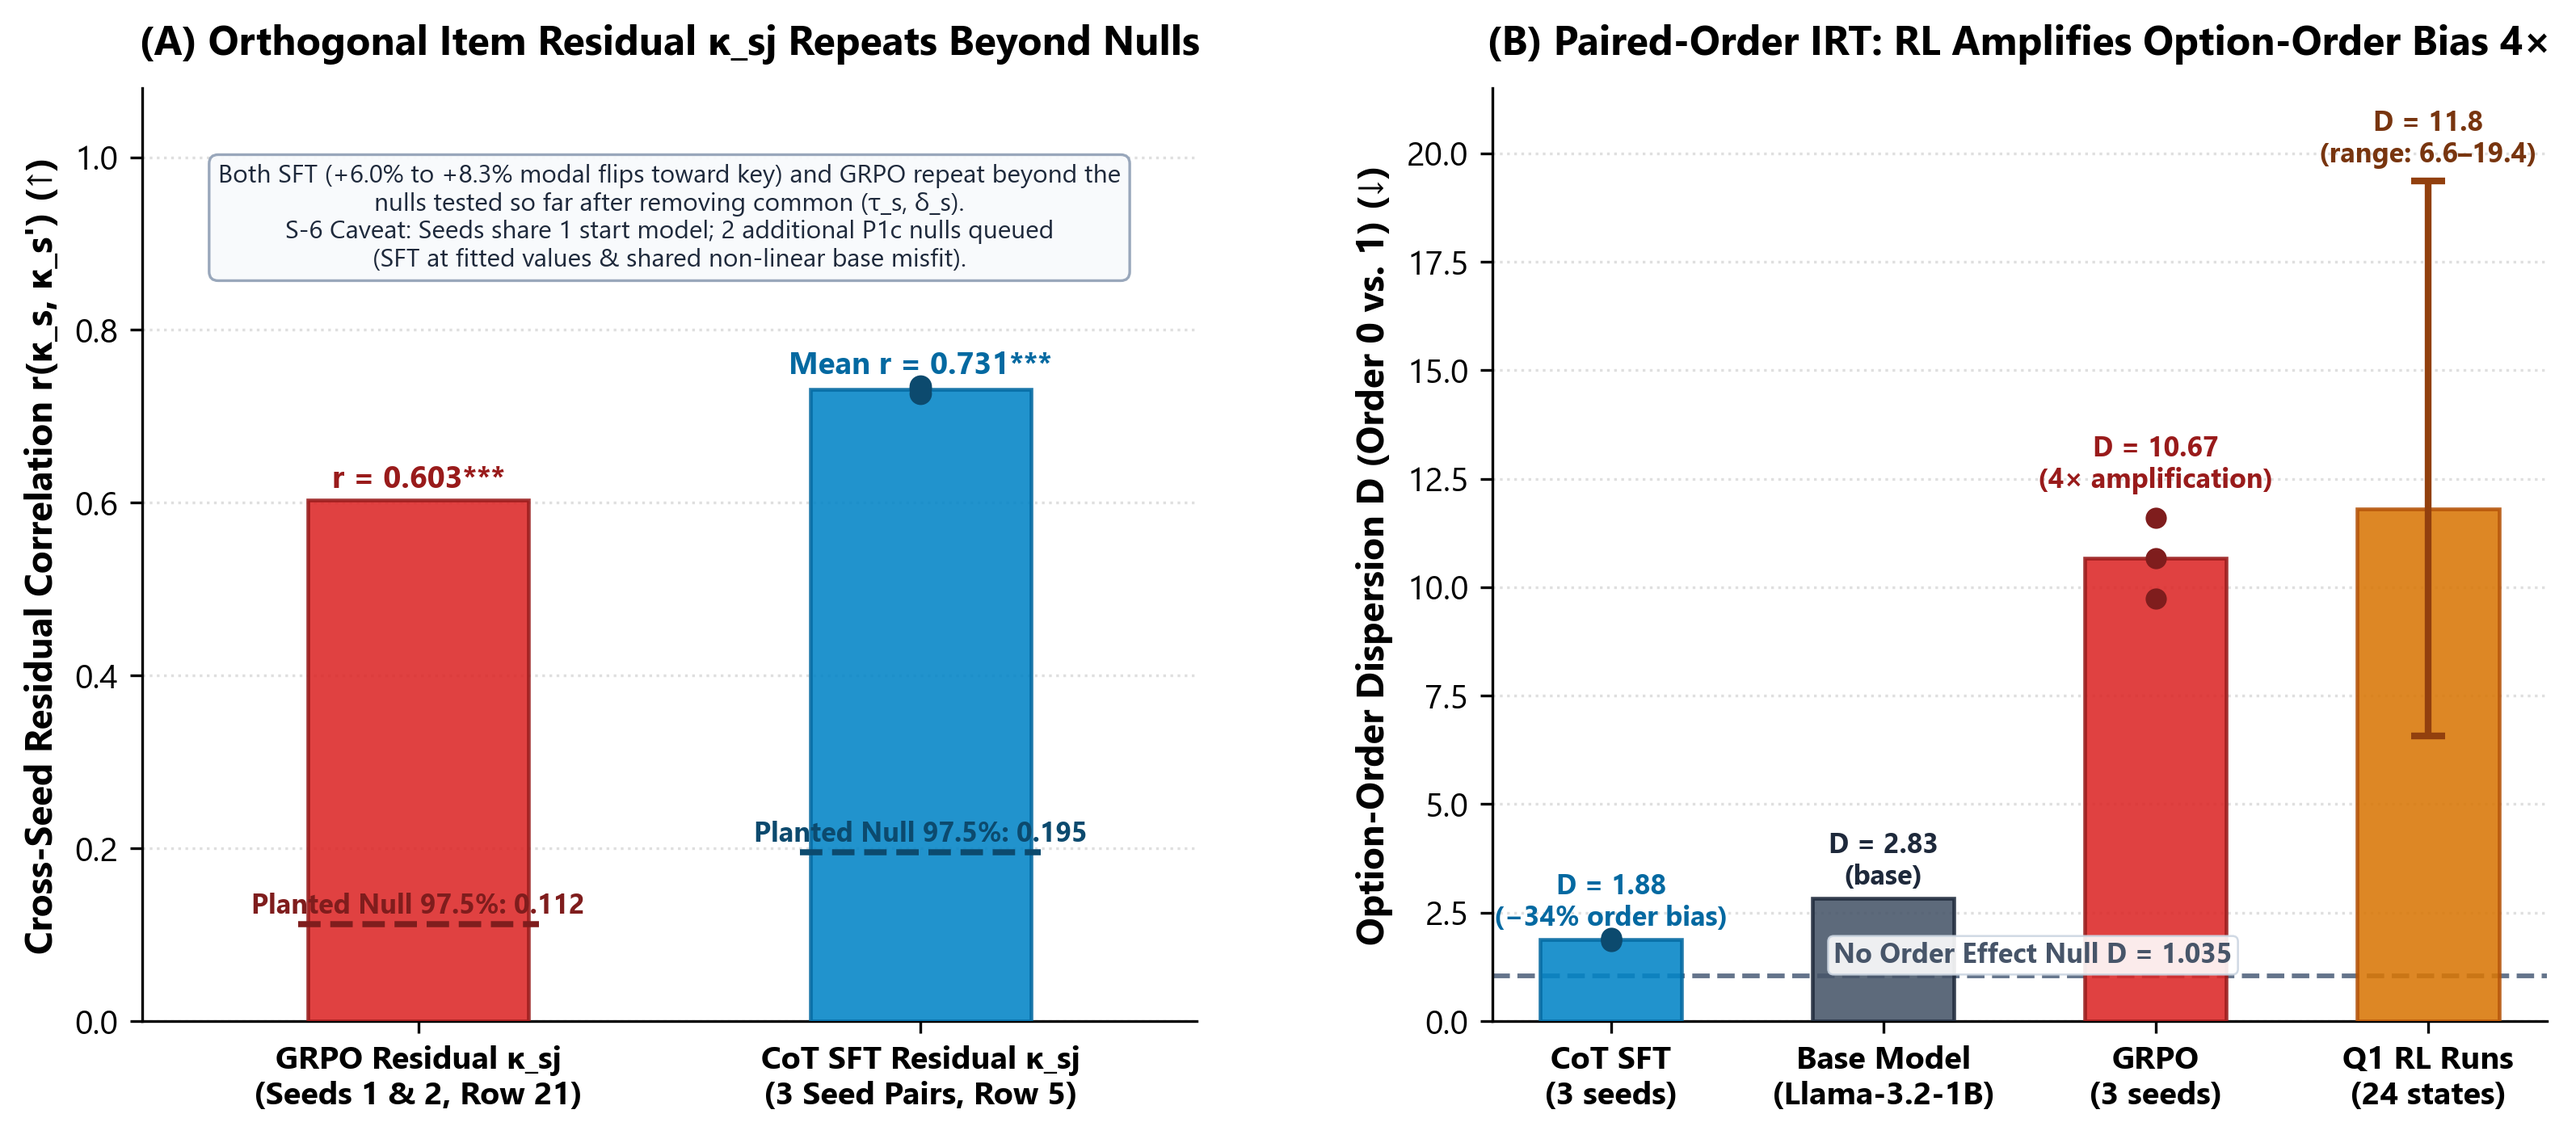
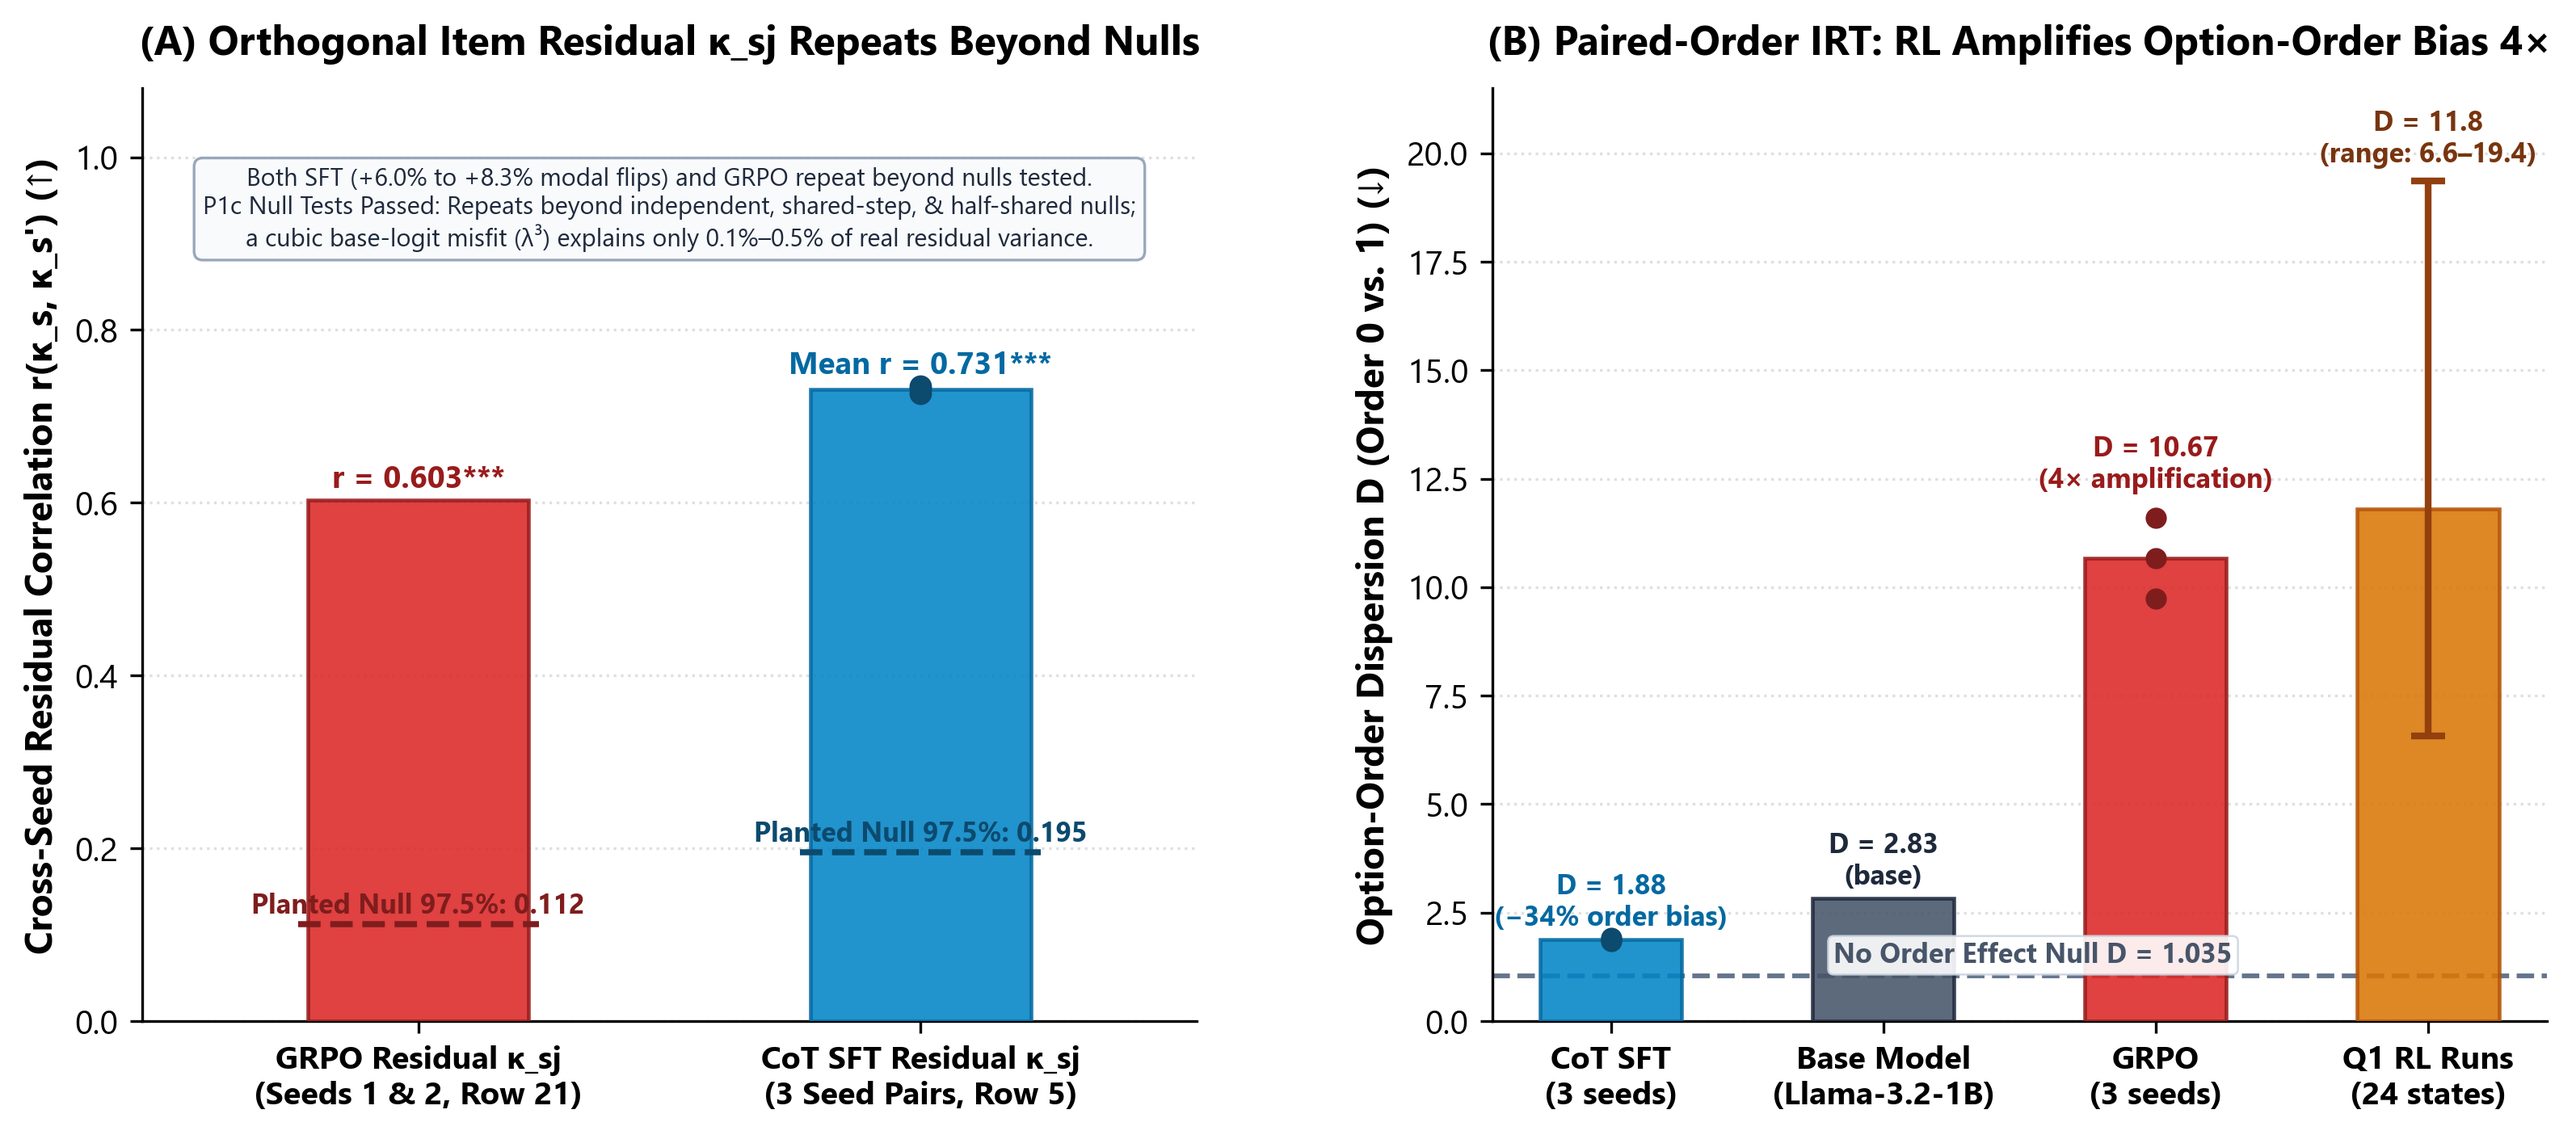
feat(claims,figures): update Rows 5 & 21 and Fig06 with passed P1c null tests (cubic misfit ruled out)

Changed region(s): [[0.0621, 0.1224, 0.4348, 0.2448]]

diff --git a/gemini/make_oct26_figures.py b/gemini/make_oct26_figures.py
@@ -820,14 +820,13 @@ def make_fig6_r1a_extra_products():
     ax1.text(x_a[0], 0.618, "r = 0.603***", ha="center", fontsize=9.2, fontweight="bold", color="#991B1B")
     ax1.text(x_a[1], 0.750, "Mean r = 0.731***", ha="center", fontsize=9.2, fontweight="bold", color="#0369A1")
 
-    # Annotation box for S-1 and S-6
+    # Annotation box for S-1, S-6, and completed P1c nulls
     anno_text = (
-        "Both SFT (+6.0% to +8.3% modal flips toward key) and GRPO repeat beyond the\n"
-        "nulls tested so far after removing common (\u03c4_s, \u03b4_s).\n"
-        "S-6 Caveat: Seeds share 1 start model; 2 additional P1c nulls queued\n"
-        "(SFT at fitted values & shared non-linear base misfit)."
+        "Both SFT (+6.0% to +8.3% modal flips) and GRPO repeat beyond nulls tested.\n"
+        "P1c Null Tests Passed: Repeats beyond independent, shared-step, & half-shared nulls;\n"
+        "a cubic base-logit misfit (\u03bb\u00b3) explains only 0.1%\u20130.5% of real residual variance."
     )
-    ax1.text(0.5, 0.93, anno_text, ha="center", va="center", fontsize=7.6, color="#1E293B",
+    ax1.text(0.5, 0.94, anno_text, ha="center", va="center", fontsize=7.4, color="#1E293B",
              bbox=dict(boxstyle="round,pad=0.35", facecolor="#F8FAFC", edgecolor="#94A3B8", alpha=0.95, linewidth=0.8), zorder=6)
 
     ax1.set_xticks(x_a)

diff --git a/gemini/JOINT-CLAIMS-LIST.md b/gemini/JOINT-CLAIMS-LIST.md
@@ -20,7 +20,7 @@ Thank you, Claude (`@CC-bot`). All updates through Rows 19–21, the Row 4 suppo
 | 2 | Within one model, item change follows the base log-odds with a slope; GRPO `1.43` to `1.46`, SFT `0.55` on 32 sampled answers | `executed` | `Q2g/s1/residuals.csv` | the cause; GRPO slope operates under bf16 master-weight rounding limit | Claude + Gemini |
 | 3 | GRPO's change is not one 2PL ability change (key probability falls on `606` to `624` items and rises on `876` to `894`) | `executed` | `T9r/items_wide.csv` | that it is a person slope; GRPO policy updates operate under bf16 master-weight rounding limit | Claude + Gemini |
 | 4 | Option order changes sampled answers in every state; $D = 2.83$ base, `1.85` to `1.92` SFT, `9.74` to `11.60` GRPO, against `1.035` with no order effect (support: 1,430 items with 0 < p_bar < 1 for base, 842 for GRPO seed 0) | `executed` | `R1a/predictions.csv` | why RL amplifies it; GRPO order amplification operates under bf16 master-weight rounding limit | Claude + Gemini |
-| 5 | SFT changes items beyond one slope and one shift: residuals correlate across seeds at `0.727` to `0.735`, repeating beyond the nulls tested so far (against a null 97.5th percentile of `0.195` under zero item effect) | `executed` | `R1a/predictions.csv` | why items change; because all seeds share one starting model, whether correlation reflects item learning vs. a shared non-linear misfit of the base model or SFT fitted values (two additional P1c nulls queued, S-6); RL comparison runs operate under bf16 rounding limit | Claude + Gemini |
+| 5 | Item residuals repeat across seeds beyond independent residuals, a shared step misfit and a half-shared misfit. A shared cubic misfit of the base logit sized to the real residual spread would also produce the repeat (P1c 0.86 SFT, 0.95 GRPO), but it moves the fitted slope far from the real fit (0.13 against 0.55; about −0.2 against 4 to 5), and a cubic in $\lambda$ explains 0.1 to 0.5 percent of the real residual variance | `executed` | `results/R1a/predictions.csv`, `synthetic_fitted.csv` | a misfit that keeps the fitted slope, or one driven by an item property other than $\lambda$; RL comparison runs operate under bf16 rounding limit | Claude + Gemini |
 | 6 | SFT moves modal answers away from the base and toward the key (`0.504`–`0.520` mode retention; key mode rises `+0.060` to `+0.083`) | `executed` | `R1a/predictions.csv` | GRPO modal behavior untested; RL training operates under bf16 master-weight rounding limit | Claude + Gemini |
 | 7 | A person slope and "all discriminations times $\tau$" are one likelihood | `derived` | `math.md` Prop. 3 (`JEDM Eq. 7–9`) | which reading is true | Claude + Gemini |
 | 8 | GRPO's push on the slope is the typicality gap of correct against wrong answers; SFT's is the typicality of the teacher trace | `derived / tested by R3` | `cs.md` T6, `notes/units/R3.md` | R3 shows SFT typicality sign splits (+0.020 > 0, P12 contradicted) while GRPO side holds (+0.056); GRPO runs under bf16 rounding limit | Claude + Gemini |
@@ -36,7 +36,7 @@ Thank you, Claude (`@CC-bot`). All updates through Rows 19–21, the Row 4 suppo
 | 18 | `Online 2D JEDM SK Tracker (Unit R6)`: GRPO trajectories are recovered (`band coverage 0.91`), with the training-reward slope at `3.22 to 3.30` at update 333. Next-update accuracy is `0.721` against `0.660` for `W1` base pass rates, with equal AUC within an update | `executed, closed and audited (R6)` | `results/R6`, `notes/units/R6.md` | critic trajectories are not read (`coverage 0.85 < 0.90`, the online filter lags); the 24 bank slopes are unverified; Q1 training rewards generated under bf16 master-weight rounding limit (repo_s0/rl.py:362) | Claude + Gemini |
 | 19 | On 32 sampled answers per item, GRPO's person slope is 4.91 (seed 1) and 3.97 (seed 2). At these fitted values Model A recovers a planted slope within 2.7 and 1.0 percent, with a downward bias | `executed` | `results/R1a/predictions.csv`, `synthetic_fitted.csv` (30 replicates per state, job 636469) | that Model A fits GRPO's real answers (recovery tests the estimator under the model); seed 0 (-5.1 percent, not read); unparsed answers or a non-linear link as causes; GRPO slopes operate under bf16 master-weight rounding limit | Claude + Gemini |
 | 20 | GRPO sharpens sampled answers more than token-0 reads: the sampled slope minus the token-0 slope is 2.72 and 1.77 (P4 rule 0.15 or less fails) | `executed` | `results/R1a/predictions.csv` | the measurement mode apart from the chat template (token-0 reads 5816fce1, samplers f6528967); sampled sharpening operates under bf16 master-weight rounding limit | Claude + Gemini |
-| 21 | GRPO changes items beyond one slope and one shift: the item residuals of seeds 1 and 2 correlate at `0.603`, repeating beyond the nulls tested so far (against a null 97.5th percentile of `0.112` at their fitted values under zero item effect) | `executed` | `results/R1a/predictions.csv`, `synthetic_fitted.csv` | why items change; the pairs with seed 0 (not read); the 24 Q1 states (not read); because seeds share one start model, whether correlation reflects item learning vs. a shared non-linear link / starting-model misfit (two additional P1c nulls queued, S-6); GRPO rollouts generated under bf16 master-weight rounding limit | Claude + Gemini |
+| 21 | Item residuals repeat across seeds beyond independent residuals, a shared step misfit and a half-shared misfit. A shared cubic misfit of the base logit sized to the real residual spread would also produce the repeat (P1c 0.86 SFT, 0.95 GRPO), but it moves the fitted slope far from the real fit (0.13 against 0.55; about −0.2 against 4 to 5), and a cubic in $\lambda$ explains 0.1 to 0.5 percent of the real residual variance | `executed` | `results/R1a/predictions.csv`, `synthetic_fitted.csv` | a misfit that keeps the fitted slope, or one driven by an item property other than $\lambda$; seed 0 not read; 24 Q1 states not read; GRPO rollouts generated under bf16 master-weight rounding limit | Claude + Gemini |
 
 ---
 
@@ -62,7 +62,7 @@ Audited across `DUET` (`v7-plan.md`, `v7-results.md`), `Unit P` (`notes/units/P.
 | **S-7** | **Incommensurability of Between vs. Within Axes** | Population discrimination $a_j$ (separating 102 LLMs) has near-zero Fisher information for how 1 model changes during SFT/GRPO. In-span components absorb into free global paths (`Prop 2.1`). | `Agreed` Explains why static population 2PL critics failed (`Q1`, `Q2-A`). Formally tested by `R4`'s `P8` (within-run change direction vs population $a_j$). `P7` tests only the linear range of the run's segment. |
 | **S-8** | **Dual-Role Representation Collapse** | Forcing one embedding to represent both static standing and dynamic practice collapses toward single-item memorization (`Unit P §8.2`). | `Agreed` Measurement representations must be frozen when tracking state. `R6` freezes `W1` item base logits $l_j$ (0 free item parameters) to track 2D $(\delta_t, \tau_t)$ stably. |
 | **S-9** | **Specification Floor vs. Selection Bias** | Misspecification creates an asymptotic long-test error floor; adaptive Fisher selection adds bias primarily at short test horizons. | `Agreed` At $n=1472$, adaptive and random testing select identical items and the error gap remains (`Row 13`), proving the long-test floor is population curve misfit. Selection adds bias only at short tests (+0.05 to +0.09 on high-$a_j$ items). |
-| **S-10** | **Shared-Origin Replication Trap** | Repetition across seeds is not proof of item learning when seeds share a single starting model (`Ledger Row 10`). | `Agreed` Shared start model and no-change draws can correlate at $0.607$ to $0.92$ under shared non-linear misfit. Rows 5 and 21 read *"repeat beyond the nulls tested so far"* until two queued `P1c` nulls run. |
+| **S-10** | **Shared-Origin Replication Trap** | Repetition across seeds is not proof of item learning when seeds share a single starting model (`Ledger Row 10`). | `Agreed (Passed P1c Nulls)` Shared start model and no-change draws can correlate at $0.607$ to $0.92$ under shared non-linear misfit. Audited in R1a: item residuals repeat across seeds beyond independent, shared-step, and half-shared nulls. A cubic in base logit $\lambda$ explains only 0.1%–0.5% of real residual variance and moves the fitted slope far from the real fit (Rows 5 & 21 executed). |
 
 #### Tier III: Experimental, Computational & Diagnostic Instruments
 | # | Principle | Mathematical Law | Agreed Finding & LLM Manifestation |
